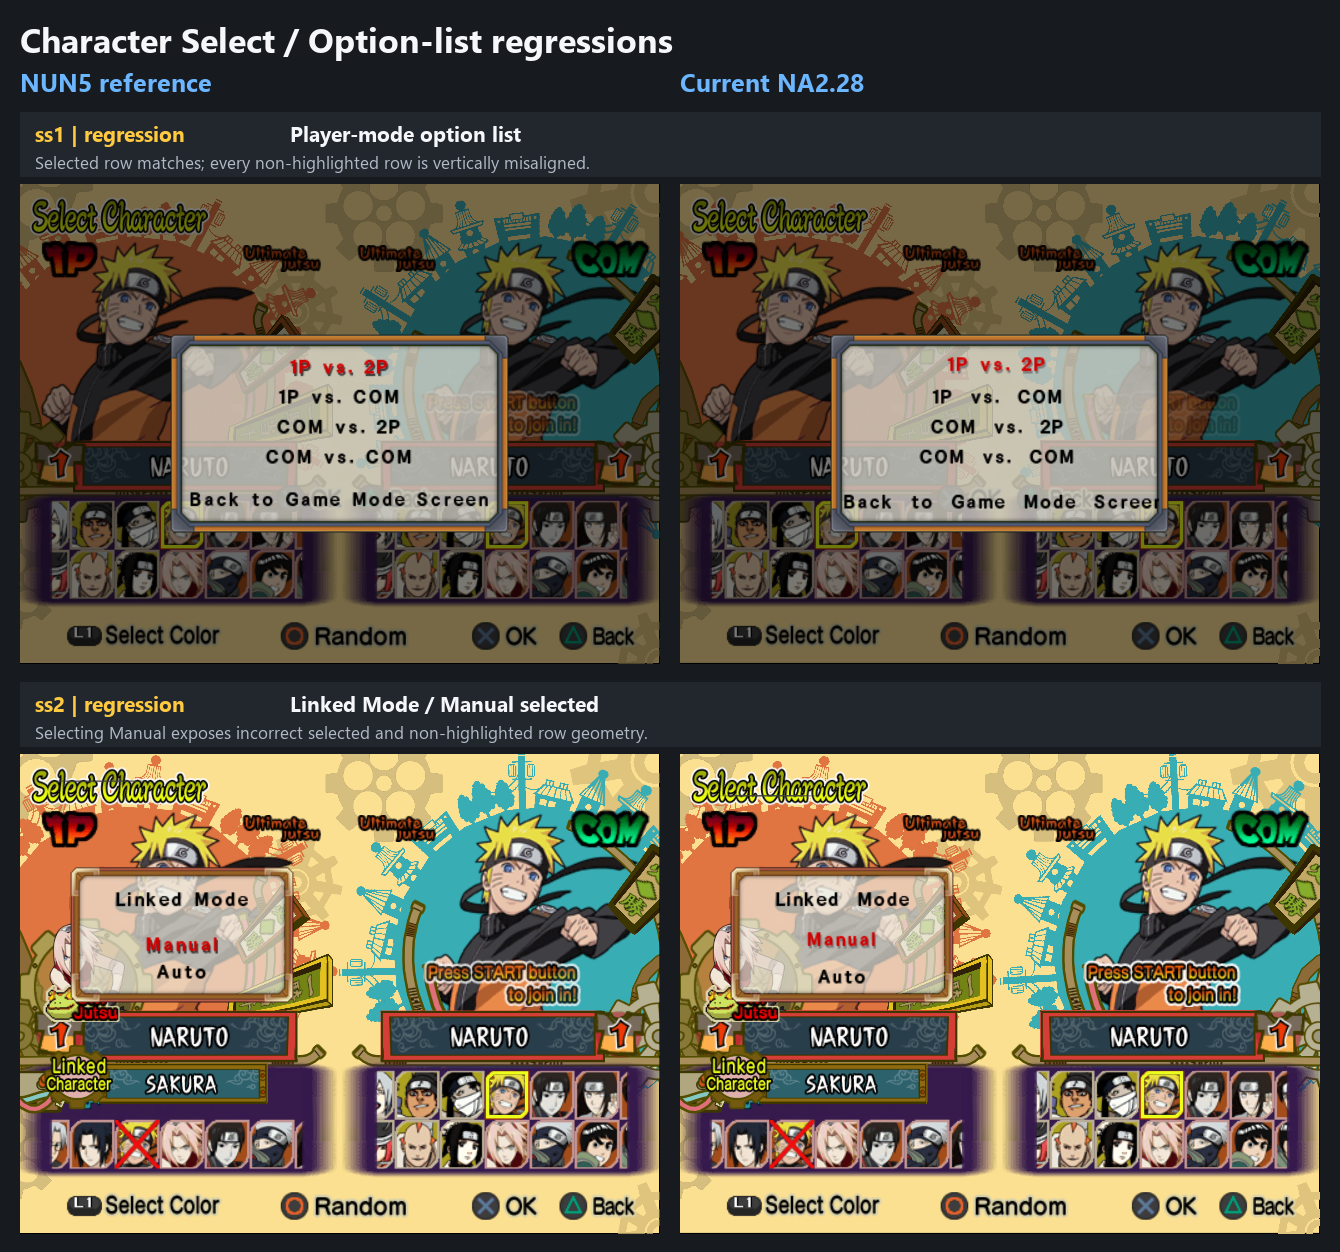
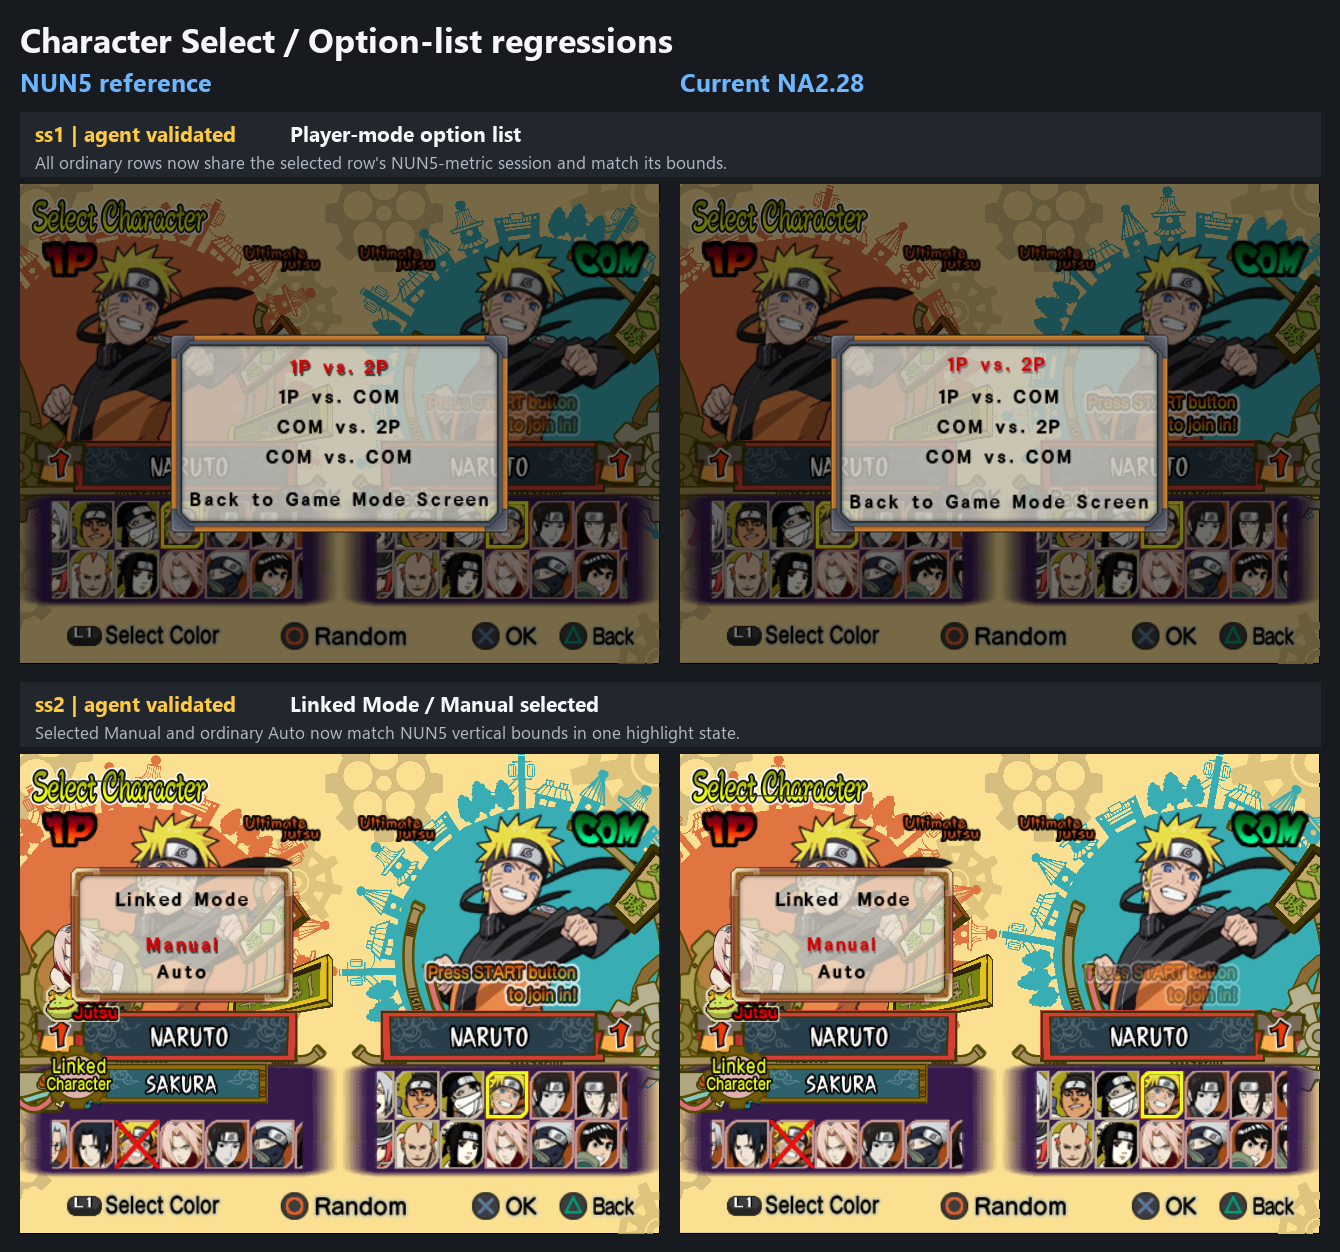
[Font] Fix Character Select option lists

diff --git a/na228_builder/features/localization/runtime_injector/sources/font_v2_core.c b/na228_builder/features/localization/runtime_injector/sources/font_v2_core.c
@@ -74,7 +74,7 @@ typedef signed int s32;
 #define FONT_PAUSE_LIST_LINE_HEIGHT 20.0f
 #define FONT_CHARACTER_LIST_BOX_WIDTH 240u
 #define FONT_CHARACTER_LIST_BOX_HEIGHT 20u
-#define FONT_CHARACTER_LIST_SELECTED_X_OFFSET 5.0f
+#define FONT_CHARACTER_LIST_X_OFFSET 5.0f
 #define FONT_CHARACTER_LIST_LINE_HEIGHT 20.0f
 #define FONT_QUIT_YES_SOURCE_BITS 0x41C00000u
 #define FONT_QUIT_NO_SOURCE_BITS 0x42600000u
@@ -660,7 +660,7 @@ int font_v2_character_selected_adapter(
 
     session.text = text;
     session.box_x =
-        (float)draw_x + FONT_CHARACTER_LIST_SELECTED_X_OFFSET;
+        (float)draw_x + FONT_CHARACTER_LIST_X_OFFSET;
     session.box_y = (float)draw_y;
     session.box_width = FONT_CHARACTER_LIST_BOX_WIDTH;
     session.box_height = FONT_CHARACTER_LIST_BOX_HEIGHT;
@@ -672,9 +672,38 @@ int font_v2_character_selected_adapter(
     session.callback = FONT_CHARACTER_SELECTED_DRAW_ADDRESS;
     session.callback_arg0 = object;
     session.callback_arg1 =
-        (u32)(draw_x + (s32)FONT_CHARACTER_LIST_SELECTED_X_OFFSET);
+        (u32)(draw_x + (s32)FONT_CHARACTER_LIST_X_OFFSET);
     session.callback_arg2 = (u32)draw_y;
     session.callback_arg3 = (u32)text;
+
+    return font_v2_adapter_call(&session);
+}
+
+FONT_V2_SECTION(".text.font_v2_character_unselected_adapter")
+int font_v2_character_unselected_adapter(
+    u32 object,
+    const u8 *text,
+    u32 color,
+    float native_x,
+    float native_y
+) {
+    FontV2Session session;
+
+    session.text = text;
+    session.box_x = native_x + FONT_CHARACTER_LIST_X_OFFSET;
+    session.box_y = native_y;
+    session.box_width = FONT_CHARACTER_LIST_BOX_WIDTH;
+    session.box_height = FONT_CHARACTER_LIST_BOX_HEIGHT;
+    session.horizontal_alignment = FONT_V2_ALIGN_START;
+    session.vertical_alignment = FONT_V2_ALIGN_START;
+    session.flags = FONT_V2_FLAG_SHRINK_X;
+    session.line_limit = 1;
+    session.line_height = FONT_CHARACTER_LIST_LINE_HEIGHT;
+    session.callback = (u32)font_v2_pause_list_callback;
+    session.callback_arg0 = object;
+    session.callback_arg1 = (u32)text;
+    session.callback_arg2 = color;
+    session.callback_arg3 = (u32)&session;
 
     return font_v2_adapter_call(&session);
 }

diff --git a/scripts/research/localization/verify_font_renderer.py b/scripts/research/localization/verify_font_renderer.py
@@ -114,6 +114,9 @@ V2_CHARACTER_CONFIRMATION_BODY_ADAPTER = (
 V2_CHARACTER_SELECTED_ADAPTER = (
     f"{V2_PREFIX}.character_selected_adapter"
 )
+V2_CHARACTER_UNSELECTED_ADAPTER = (
+    f"{V2_PREFIX}.character_unselected_adapter"
+)
 V2_JUTSU_DRAW_CALLBACK = f"{V2_PREFIX}.c.jutsu_draw_callback"
 V2_JUTSU_DRAW_ENTRY = f"{V2_PREFIX}.jutsu_draw_entry"
 V2_CHARACTER_CONFIRMATION_BODY_CALLBACK = (
@@ -437,6 +440,7 @@ def build_v2_c_core() -> tuple[Fragment, ...]:
         "font_v2_command_icon_offset",
         "font_v2_character_confirmation_body_adapter",
         "font_v2_character_selected_adapter",
+        "font_v2_character_unselected_adapter",
         "font_v2_jutsu_draw_entry",
         "font_v2_practice_icon_metric",
         "font_v2_practice_icon_draw",
@@ -506,6 +510,9 @@ def build_v2_c_core() -> tuple[Fragment, ...]:
         ].symbol: V2_CHARACTER_CONFIRMATION_BODY_ADAPTER,
         extracted.symbols["font_v2_character_selected_adapter"].symbol: (
             V2_CHARACTER_SELECTED_ADAPTER
+        ),
+        extracted.symbols["font_v2_character_unselected_adapter"].symbol: (
+            V2_CHARACTER_UNSELECTED_ADAPTER
         ),
         extracted.symbols["font_v2_jutsu_draw_entry"].symbol: (
             V2_JUTSU_DRAW_ENTRY
@@ -604,6 +611,7 @@ def build_v2_c_core() -> tuple[Fragment, ...]:
         V2_COMMAND_ICON_OFFSET,
         V2_CHARACTER_CONFIRMATION_BODY_ADAPTER,
         V2_CHARACTER_SELECTED_ADAPTER,
+        V2_CHARACTER_UNSELECTED_ADAPTER,
         V2_CHARACTER_CONFIRMATION_BODY_CALLBACK,
         V2_JUTSU_DRAW_CALLBACK,
         V2_JUTSU_DRAW_ENTRY,

diff --git a/docs/knowledge/localization/font/README.md b/docs/knowledge/localization/font/README.md
@@ -1398,25 +1398,54 @@ center modal.
 The title path loads local Y `12.0` at runtime `0x003B8FE0` (ELF file
 `0x2B90E0`) before its ordinary renderer call. The choice loop loads base Y
 `48.0` at runtime `0x003B90A4` (file `0x2B91A4`) and retains a native
-`48 + 26*i` formula. Its selected renderer call is at runtime `0x003B90DC`;
-the delay slot at runtime `0x003B90E0` (file `0x2B91E0`) is a clean NOP.
-The unselected call remains at runtime `0x003B90FC`.
+`48 + 26*i` formula. Its selected renderer call is at runtime `0x003B90DC`
+and its unselected call is at `0x003B90FC`.
 
-The bounded candidate changes the title to Y `8`, the choice base to Y `44`,
-and the selected-call delay slot to `addiu a2,a2,-2`. No C adapter or shared
-renderer change is required: these are local constants and one call-local
-compensation in a dedicated draw function. Pixel bounds from the fresh
-task-owned capture are:
+NUN5 homolog `FUN_003CBAF0` uses one selected-state-aware
+`FUN_00393210` call with local formula `36 + 22*i`. The helper semantics differ
+from NA2's separate selected and ordinary renderers, so copying those two
+constants directly is not coordinate-equivalent. Supplemental ss2 with
+`Manual` selected supplies both NA2 paths in one frame. The earlier
+`44 + 26*i` candidate plus selected-only `-2` compensation put selected Manual
+five pixels too high and ordinary Auto five pixels too low at 640x480.
+
+The corrected bounded formula is `46 + 20*i`, with no selected-only
+compensation. The title remains at local Y `8`. Fresh pixel bounds are:
 
 - title: NUN5 and Current both Y `138..151`;
-- unselected `Manual`: NUN5 and Current both Y `183..196`;
-- selected `Auto`: NUN5 Y `211..224`, Current Y `210..224`, a one-edge-pixel
-  raster difference with matched placement.
+- selected `Manual`: NUN5 and Current both Y `183..196`;
+- ordinary `Auto`: NUN5 and Current both Y `211..223`.
 
-The exact clean guards are `4041023C`, `4042023C`, and `00000000`; the
-replacements are `0041023C`, `3042023C`, and `FEFFC624`. Confidence is high
-for caller isolation and placement. Runtime status is agent-validated and
-awaits explicit user acceptance.
+The exact clean guards are title `4041023C`, interval `D041023C`, and base
+`4042023C`; replacements are `0041023C`, `A041023C`, and `3842023C`.
+No shared renderer or adjacent modal is changed. Confidence is high for caller
+isolation and placement; explicit user acceptance remains pending.
+
+## 2026-07-30 Character Select ordinary-row metric session
+
+Supplemental ss1 reopens only the five-row player-mode list inside
+main-ELF `FUN_003BC780`. NA2 draws its selected entry through
+`FUN_00382610` at runtime `0x003BC884` and every ordinary entry through
+`FUN_00382470` at runtime `0x003BC8BC` (ELF file `0x2BC9BC`, clean guard
+`1C090E0C00000000`). NUN5 homolog `FUN_003CF3F0` instead routes both states
+through one `FUN_00393210` helper, with native local Y values `0`, `24`, `48`,
+`72`, and `106`.
+
+The existing selected hook already enters the accepted 240-unit v2 metric
+session and applies a five-local-unit X correction. Ordinary rows bypassed that
+session, so their Y bounds were already exact but their visible widths were
+eight or nine pixels too large and their left edges were six pixels too far
+left. A second caller-specific C entry now gives only the ordinary draw the
+same metric session and X correction, then returns through the original
+ordinary callback. It does not alter the row table, selected renderer, Linked
+Mode, or confirmation callers.
+
+At 640x480, the three ordinary comparison rows now have exact NUN5 bounds:
+`(259..377,206..219)`, `(257..379,236..249)`, and
+`(246..390,266..279)`. The selected first row remains on its prior accepted
+path. This proves that the discrepancy was session selection rather than
+per-row Y drift or a need for individual scale constants. Confidence is high;
+explicit user acceptance of the refreshed five-row list remains pending.
 
 ### 2026-07-28 accepted Ninja Song numeric C migration
 

diff --git a/docs/workstreams/font/epics/ss2-6-layout/README.md b/docs/workstreams/font/epics/ss2-6-layout/README.md
@@ -12,13 +12,13 @@ case.
 ## Execution state
 
 - Mode: Continuous.
-- Current subtask: Priority 2 — supplemental ss1/ss2 Character Select
-  option-list regressions. Continuous implementation resumed by explicit user
-  instruction; Priority 3 follows with the corrected selective-wrap contract.
+- Current subtask: Priority 3 — ss3–ss6 selective Jutsu-selector wrapping.
+  Priority 2 implementation, canonical validation, and agent runtime evidence
+  are complete; its grid remains pending visible delivery.
 - Pending grid:
   `docs/workstreams/font/epics/ss2-6-layout/2-linked-mode-modal.png`.
-- Next action: commit and visibly deliver the refreshed evidence grids, then
-  fix Priority 2 as one bounded option-list family.
+- Next action: visibly deliver Priority 2, then continue Priority 3 without
+  waiting for Priority 2 acceptance.
 
 ## Scope and evidence
 
@@ -34,8 +34,10 @@ case.
   `work/Font/inputs/screenshots/batches/2026-07-30-regressions/`.
 - Supplemental provenance and hashes:
   `work/Font/inputs/sstates/batches/2026-07-30-regressions/provenance.tsv`.
-- Compatible independent worker ISO provenance:
+- Original-batch compatible independent worker ISO provenance:
   `work/Font/inputs/sstates/batches/2026-07-30-ss1-10/iso_provenance.tsv`.
+- Supplemental-batch compatible independent worker ISO provenance:
+  `work/Font/inputs/sstates/batches/2026-07-30-regressions/iso_provenance.tsv`.
 - Protected `@pcsx2_dev` sources remain untouched.
 - Exact grouping: ss1 Character Select return confirmation; ss2 Linked Mode
   center modal; ss3–ss6 one Jutsu-selector defect, with ss3/ss4 supplied as
@@ -70,14 +72,19 @@ case.
 
 ### Priority 2 — supplemental ss1–ss2: Character Select option lists
 
-- State: reopened by user-supplied regression evidence on 2026-07-30.
-  The earlier default Linked Mode view did not cover highlight-state changes.
-- ss1: the highlighted first player-mode row matches, but the non-highlighted
-  rows drift progressively downward relative to NUN5.
-- ss2: selecting `Manual` exposes incorrect selected/non-highlighted row
-  geometry in the Linked Mode modal.
-- Remaining action: isolate the shared option-list row behavior without
-  disturbing the verified return-confirmation family.
+- State: implemented, canonically validated, and agent-validated on 2026-07-30;
+  visible delivery and explicit user acceptance remain pending.
+- ss1: the highlighted first player-mode row remains unchanged. The ordinary
+  rows already had exact NUN5 Y bounds, but bypassed the selected row's
+  NUN5-metric session, making them eight or nine pixels too wide and six pixels
+  too far left. Their dedicated ordinary callback now enters the same bounded
+  240-unit session and five-local-unit X correction while retaining native Y.
+  All three visible ordinary rows now match NUN5 bounds exactly.
+- ss2: the title stays at local Y `8`; one shared `46 + 20*i` choice formula,
+  with no selected-only compensation, gives exact NUN5 Y bounds for selected
+  `Manual` and ordinary `Auto`.
+- Remaining action: explicit user review only. The verified return-confirmation
+  family and every unrelated caller remain unchanged.
 
 ![Priority 2 Linked Mode baseline](2-linked-mode-modal.png)
 
@@ -138,9 +145,8 @@ case.
 Priority is determined by the most efficient implementation order.
 
 1. **ss1 — Character Select return confirmation.** User-verified.
-2. **supplemental ss1–ss2 — Character Select option lists.** Fix
-   non-highlighted player-mode rows and the Manual-selected Linked Mode
-   geometry as one bounded option-list family.
+2. **supplemental ss1–ss2 — Character Select option lists.** Implemented and
+   agent-validated; visible delivery and explicit user acceptance are pending.
 3. **ss3–ss6 — one Jutsu-selector defect.** Use ss5/ss6 as visible targets and
    supplemental ss3 as the collapsed target; preserve every native short
    one-line row and wrap only the NUN5-wrapped long selected title.

diff --git a/na228_builder/features/localization/README.md b/na228_builder/features/localization/README.md
@@ -1889,29 +1889,32 @@ verification pass; clean-construction runtime validation and user acceptance
 remain pending because the supplied visible-prompt ss7 state resumes after
 both owner calls.
 
-The `font_layout_character_select_modal` layer now owns three exact main-ELF
-callers rather than broad modal behavior. File `0x2BC984` routes only the
-selected five-row modal entry through its 240-unit shrink-only box; file
-`0x2BCB54` routes only the return-confirmation body through the accepted
+The `font_layout_character_select_modal` layer owns four exact main-ELF
+callers rather than broad modal behavior. Files `0x2BC984` and `0x2BC9BC`
+route only the selected and ordinary five-row entries through the same
+240-unit NUN5-metric session and five-local-unit X correction. Their distinct
+native callbacks retain the red selected style and black ordinary style, while
+the accepted row table continues to own every Y coordinate. File `0x2BCB54`
+routes only the return-confirmation body through the accepted
 secondary-renderer 368-by-24 box. Replacement-batch ss1 isolates the complete
-top Yes/No list at file `0x2BCAAC`, clean guard
-`800D0E0C00000000`; that call reuses
+top Yes/No list at file `0x2BCAAC`, clean guard `800D0E0C00000000`; that call reuses
 `localization.font.v2.quit_choices_scope`, so its rows receive the same
 relative modal offsets as NUN5 without adding another renderer formula. The
-lower body is user-accepted. The top selector is agent-validated and remains
-`approved_for_test` pending explicit user acceptance. Every ordinary row,
-Linked Mode list, and unrelated main-ELF list/body caller stays native.
+lower body is user-accepted and the top selector is user-verified.
+Supplemental ss1 proves the ordinary-row session preserves all native Y bounds
+while matching NUN5 horizontal bounds. The refreshed five-row result remains
+`approved_for_test` pending explicit user acceptance. Linked Mode and every
+unrelated main-ELF list/body caller stay isolated.
 
 The declarative `font_layout_linked_mode_modal` layer owns only main-ELF
-`FUN_003B8F40`, the center-screen Linked Mode selector in replacement-batch
-ss2. It changes the title constant at file `0x2B90E0` from local Y `12` to
-`8`, changes the three-choice base at file `0x2B91A4` from local Y `48` to
-`44`, and uses the existing selected-call delay slot at file `0x2B91E0` for
-`addiu a2,a2,-2`. The native 26-unit row step, draw calls, text pointers, X
-geometry, and every other modal remain untouched. Fresh task-owned runtime
-capture gives identical NUN5/current vertical ink bounds for `Linked Mode`
-and `Manual`; selected `Auto` differs only at one antialiased raster edge.
-The layer is `approved_for_test` pending explicit user acceptance.
+`FUN_003B8F40`, the center-screen Linked Mode selector. It changes the title
+constant at file `0x2B90E0` from local Y `12` to `8`, the choice interval at
+file `0x2B9190` from `26` to `20`, and the base at file `0x2B91A4` from `48`
+to `46`. No selected-only delay-slot compensation remains. Supplemental
+Manual-selected ss2 gives exact NUN5/current Y bounds for the title, selected
+Manual, and ordinary Auto; the native draw calls, text pointers, X geometry,
+and every other modal remain untouched. The layer is `approved_for_test`
+pending explicit user acceptance.
 
 The separate `font_layout_special_controls_body` layer completes the explanatory
 block on the same ss1 Special Controls screen. Exact telemetry identifies only
